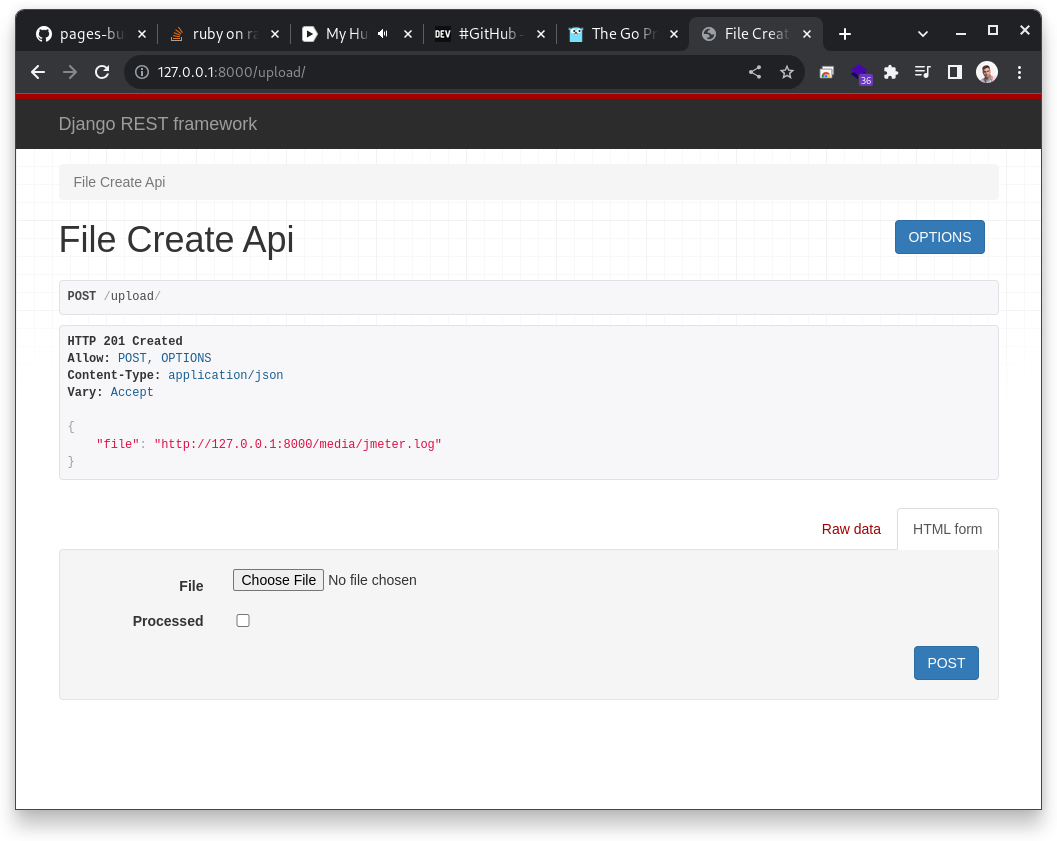
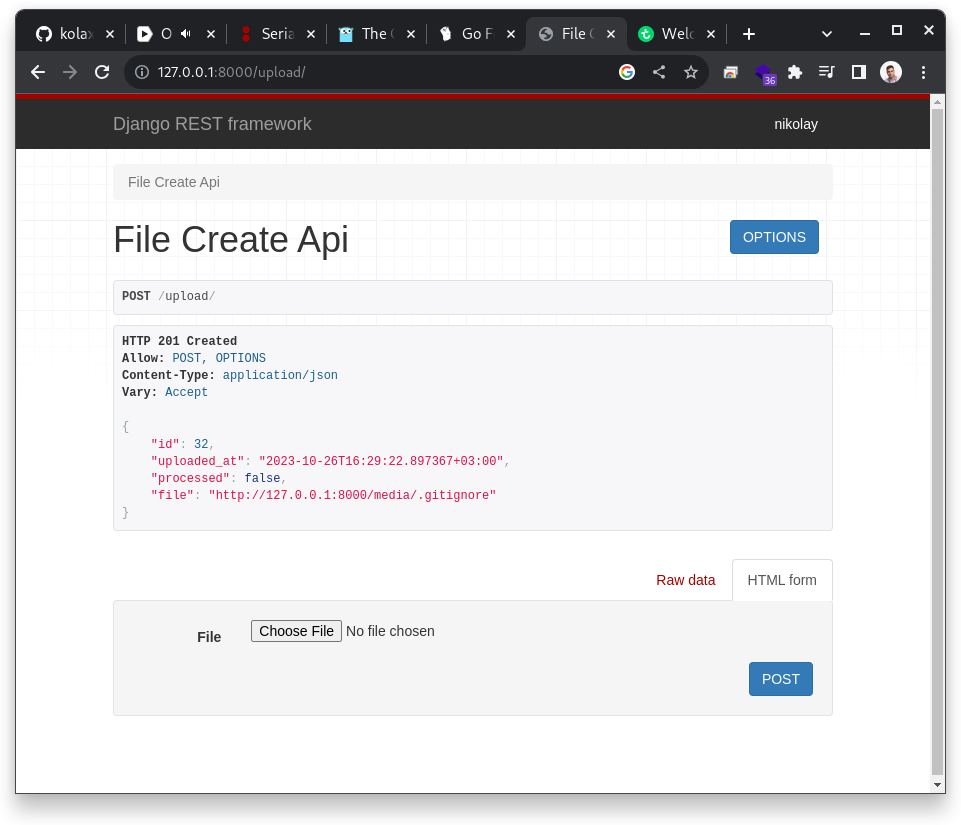
serializer fix, md fixes, env swap fix

diff --git a/app/files/serializers.py b/app/files/serializers.py
@@ -8,11 +8,5 @@ class FileSerializer(serializers.ModelSerializer):
         model = File
         fields = '__all__'
 
-    def to_representation(self, instance):
-        data = super().to_representation(instance)
-        request = self.context.get('request')
-
-        if request and request.method == 'POST':
-            data = {'file': data['file']}
-
-        return data
+    uploaded_at = serializers.DateTimeField(read_only=True)
+    processed = serializers.BooleanField(read_only=True)

diff --git a/README.MD b/README.MD
@@ -85,14 +85,19 @@ pip install -r requirements/development.txt
 ### .env swap
 
 There is a `local.env` file for the local development.
-By default `.env` file is used by Docker. To change it, run `env_swap.sh`
+By default `.env` file is used by Docker. To change it, run `swap_env.sh`
 Names will be changed.
 
 ```commandline
-source env_swap.sh
+source swap_env.sh
 ```
+    (venv) [nikolay@fedora files-uploading-processing] (master)$ source swap_env.sh
+    ENV_TYPE was set to: LOCAL
+
 Now your environment for the local development is right configured.
 If you want to run app in Docker, make a swap one more time.
+
+![Alt text](swap_env.png)
 
 ### Migrate and run
 ```commanline
@@ -109,49 +114,79 @@ celery -A app worker -l info -P solo
 
 # Rest API
     
-## Get list of files with processed status
-
-`GET /files/`
-
-    curl -i -H 'Accept: application/json' http://localhost:8000/files/
-
-    HTTP/1.1 200 OK
-    Date: Wed, 25 Oct 2023 11:13:26 GMT
-    Server: WSGIServer/0.2 CPython/3.11.5
-    Content-Type: application/json
-    Vary: Accept, Cookie
-    Allow: GET, HEAD, OPTIONS
-    X-Frame-Options: DENY
-    Content-Length: 2
-    X-Content-Type-Options: nosniff
-    Referrer-Policy: same-origin
-    Cross-Origin-Opener-Policy: same-origin
-
-    []
-
-![Files](files.png)
-
 ## Upload file
 
-`POST /upload/`
+#### POST /upload/
 
-    curl -i -X POST -F "file=@/pathToYourFile" http://localhost:8000/upload/
+This method allows the user to send only `file` to the server. (Added RO to the serializer `FileSerializer`)
+Rerurning `file`, `uploaded_at` and `processed` 
 
+```commanline
+curl -i -X POST -F "file=@files.png" http://localhost:8000/upload/
+```
+    
     HTTP/1.1 201 Created
-    Date: Wed, 25 Oct 2023 11:16:37 GMT
-    Server: WSGIServer/0.2 CPython/3.11.5
+    Date: Thu, 26 Oct 2023 13:14:10 GMT
+    Server: WSGIServer/0.2 CPython/3.11.6
     Content-Type: application/json
     Vary: Accept, Cookie
     Allow: POST, OPTIONS
     X-Frame-Options: DENY
-    Content-Length: 53
+    Content-Length: 123
     X-Content-Type-Options: nosniff
     Referrer-Policy: same-origin
     Cross-Origin-Opener-Policy: same-origin
 
-    {"file":"http://localhost:8000/media/production.yml"}
+    {
+        "id": 24,
+        "uploaded_at": "2023-10-26T16:14:10.330994+03:00",
+        "processed": false,
+        "file": "http://localhost:8000/media/files.png"
+    }
 
 ![Upload](upload.png)
+
+## Get list of files with processed status
+
+#### GET /files/
+```commandline
+curl -i -X GET http://localhost:8000/files/
+```
+
+    HTTP/1.1 200 OK
+    Date: Thu, 26 Oct 2023 13:15:28 GMT
+    Server: WSGIServer/0.2 CPython/3.11.6
+    Content-Type: application/json
+    Vary: Accept, Cookie
+    Allow: GET, HEAD, OPTIONS
+    X-Frame-Options: DENY
+    Content-Length: 124
+    X-Content-Type-Options: nosniff
+    Referrer-Policy: same-origin
+    Cross-Origin-Opener-Policy: same-origin
+
+    [
+        {
+            "id": 24,
+            "uploaded_at": "2023-10-26T16:14:10.330994+03:00",
+            "processed": true,
+            "file": "http://localhost:8000/media/files.png"
+        },
+        {
+            "id": 26,
+            "uploaded_at": "2023-10-26T16:23:46.582734+03:00",
+            "processed": true,
+            "file": "http://localhost:8000/media/files_TDwjqsq.png"
+        },
+        {
+            "id": 27,
+            "uploaded_at": "2023-10-26T16:23:47.307746+03:00",
+            "processed": true,
+            "file": "http://localhost:8000/media/files_ngYGDWv.png"
+        },
+    ]
+
+![List](list.png)
 
 # Track tasks
 
